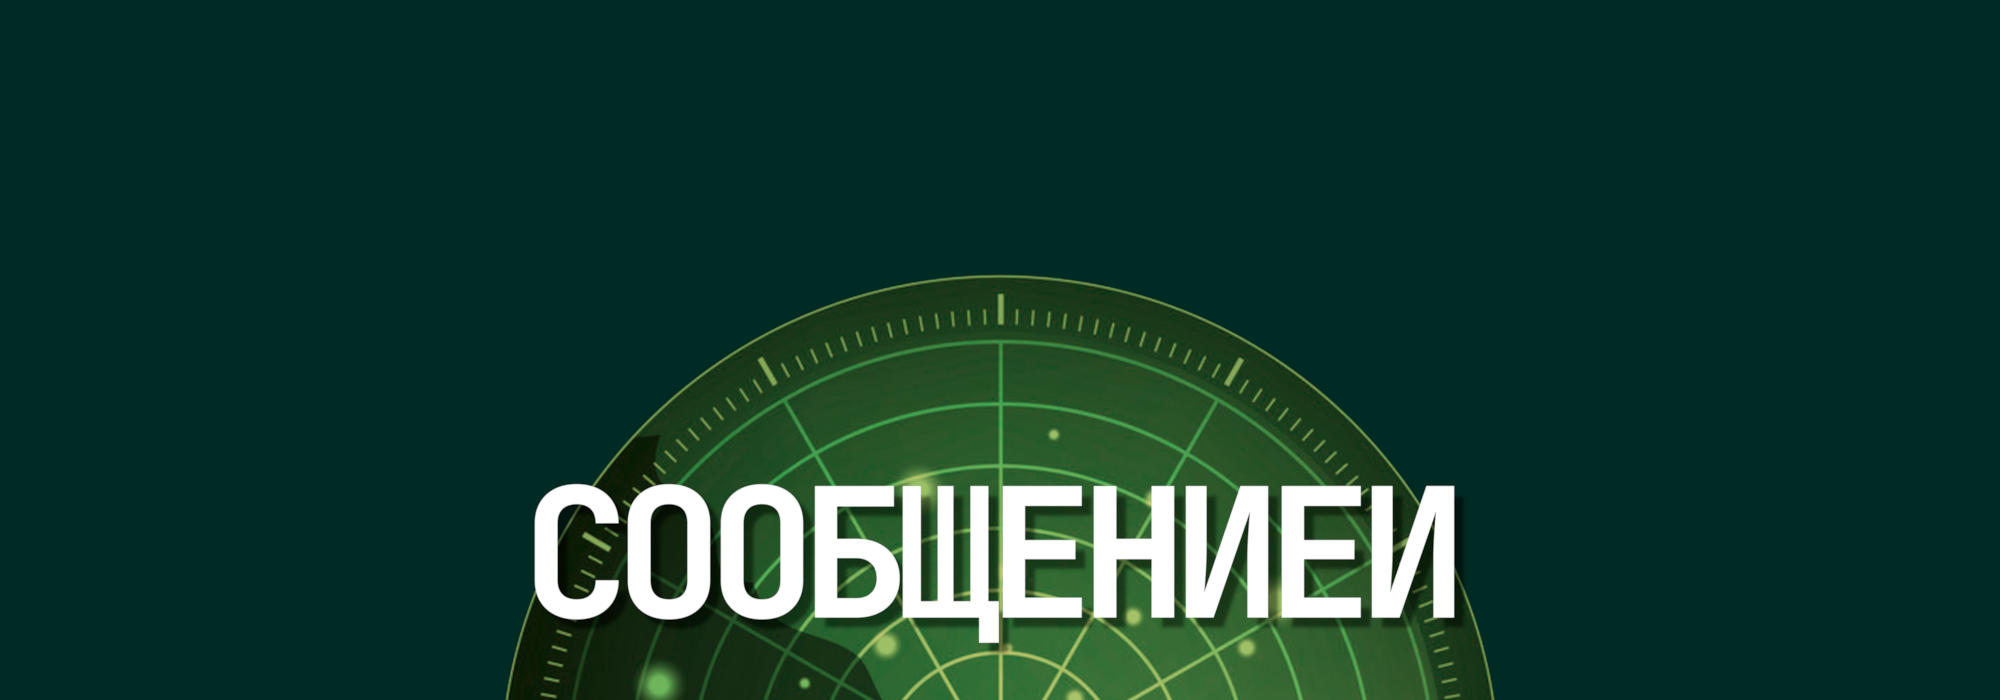
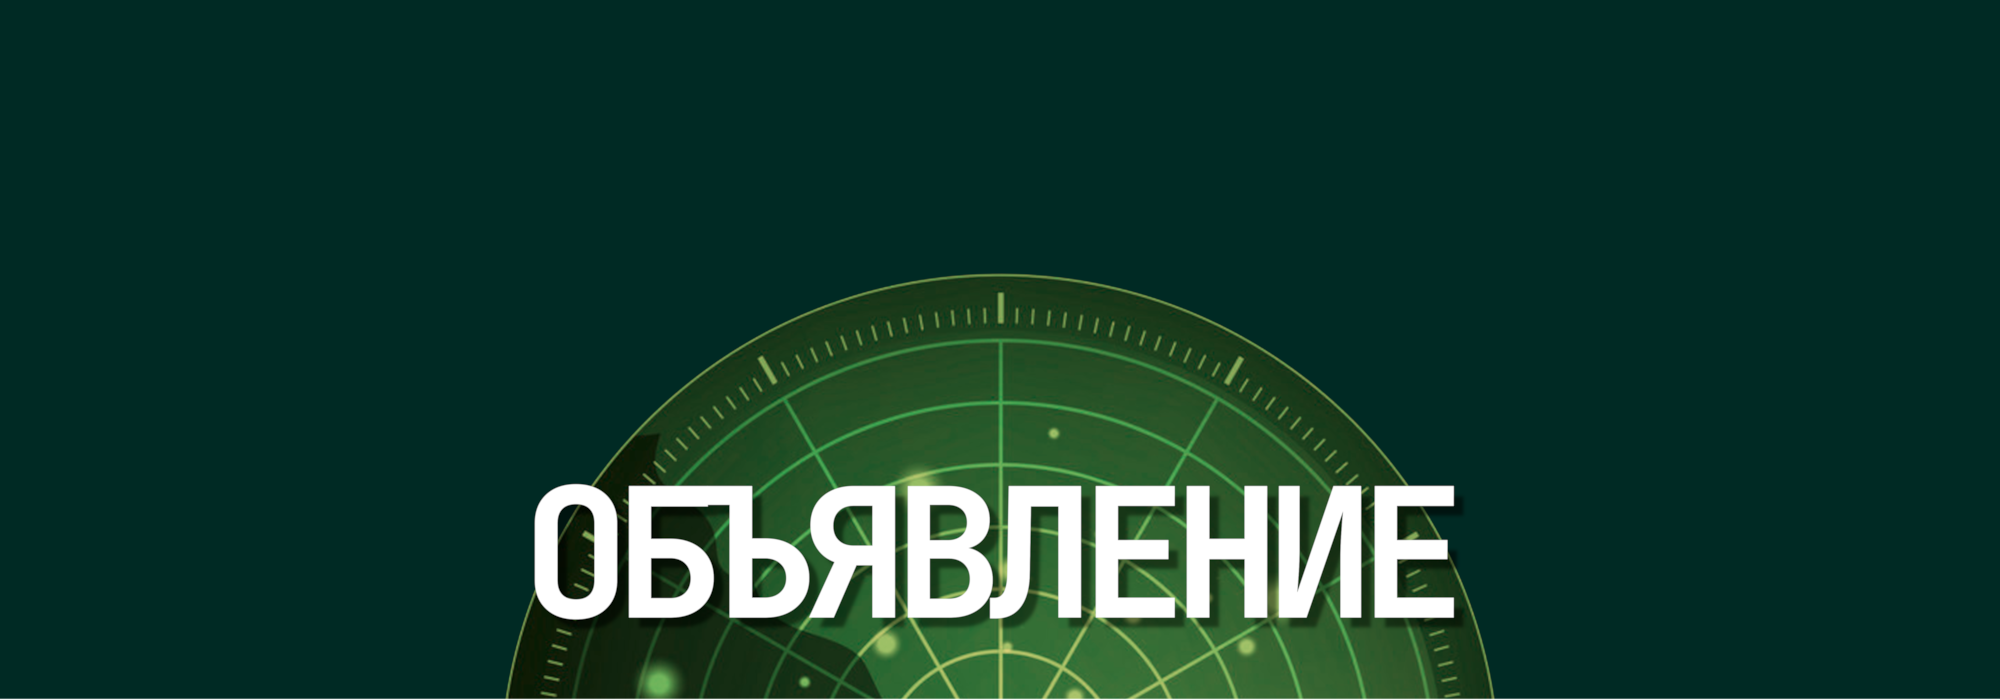
fix

diff --git a/main.py b/main.py
@@ -4,7 +4,7 @@ from telegram import ParseMode  #upm package(python-telegram-bot)
 from telegram.ext import Updater, MessageHandler, Filters, Defaults  #upm package(python-telegram-bot)
 
 import config
-from messages import flag_to_hashtag, post_channel_english, breaking_news
+from messages import flag_to_hashtag, post_channel_english, breaking_news,announcement
 from meme import post_channel_meme
 import re
 
@@ -35,6 +35,12 @@ if __name__ == "__main__":
             Filters.update.channel_post & Filters.text
             & Filters.regex(re.compile(r"#eilmeldung", re.IGNORECASE)),
             breaking_news))
+
+    dp.add_handler(
+        MessageHandler(
+            Filters.update.channel_post & Filters.text
+            & Filters.regex(re.compile(r"#mitteilung", re.IGNORECASE)),
+            announcement))
 
     dp.add_handler(MessageHandler(Filters.chat(config.ADMINS),
                                   flag_to_hashtag))

diff --git a/messages.py b/messages.py
@@ -111,7 +111,7 @@ def breaking_news(update: Update, context: CallbackContext):
         context.bot.send_photo(
             chat_id=lang.channel_id,
             photo=open(f"res/breaking/mn-breaking-{lang.lang_key}.png", "rb"),
-            caption="#" + lang.breaking +
+            caption="#" + lang.breaking + "\n\n" +
             translate_message(lang.lang_key, text) + "\n" + lang.footer)
 
 def announcement(update: Update, context: CallbackContext):

diff --git a/lang.py b/lang.py
@@ -14,7 +14,7 @@ languages: [Language] = [
     "en", # English
     config.CHANNEL_EN, # https://t.me/MilitaryNewsEN
     "🔰 Subscribe to @MilitaryNewsEN\n🔰 Join us @MilitaryChatEN",
-    "BREAKING_NEWS",
+    "BREAKING",
     "ANNOUNCEMENT"
   ),
   

diff --git a/README.md b/README.md
@@ -1,5 +1,5 @@
 # ptb-mn
-This Telegram-Bot aims to help Admins of @MilitaerNews publishing for multiple languages and content management.
+This Telegram-Bot aims to help Admins of [@MilitaerNews](channel-de) publishing for multiple languages.
 
 You can find it [here](bot).
 
